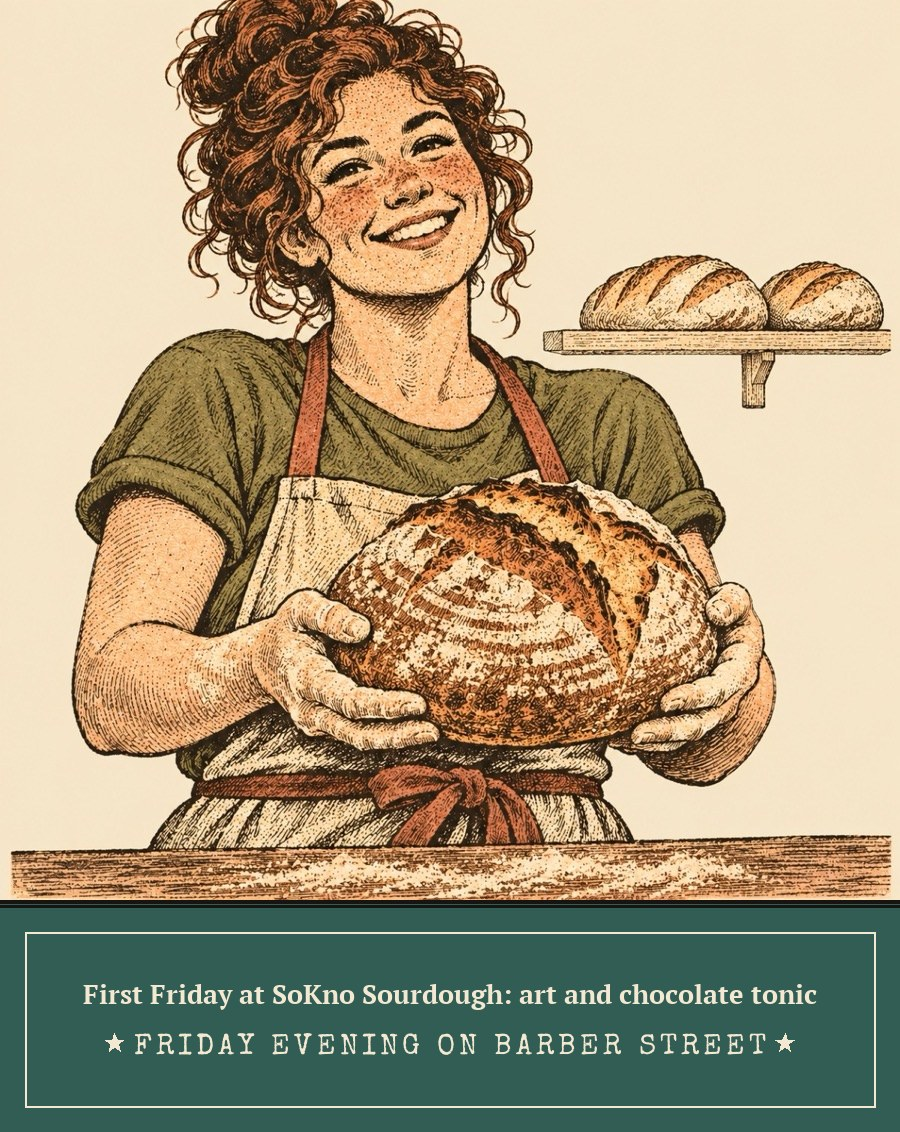
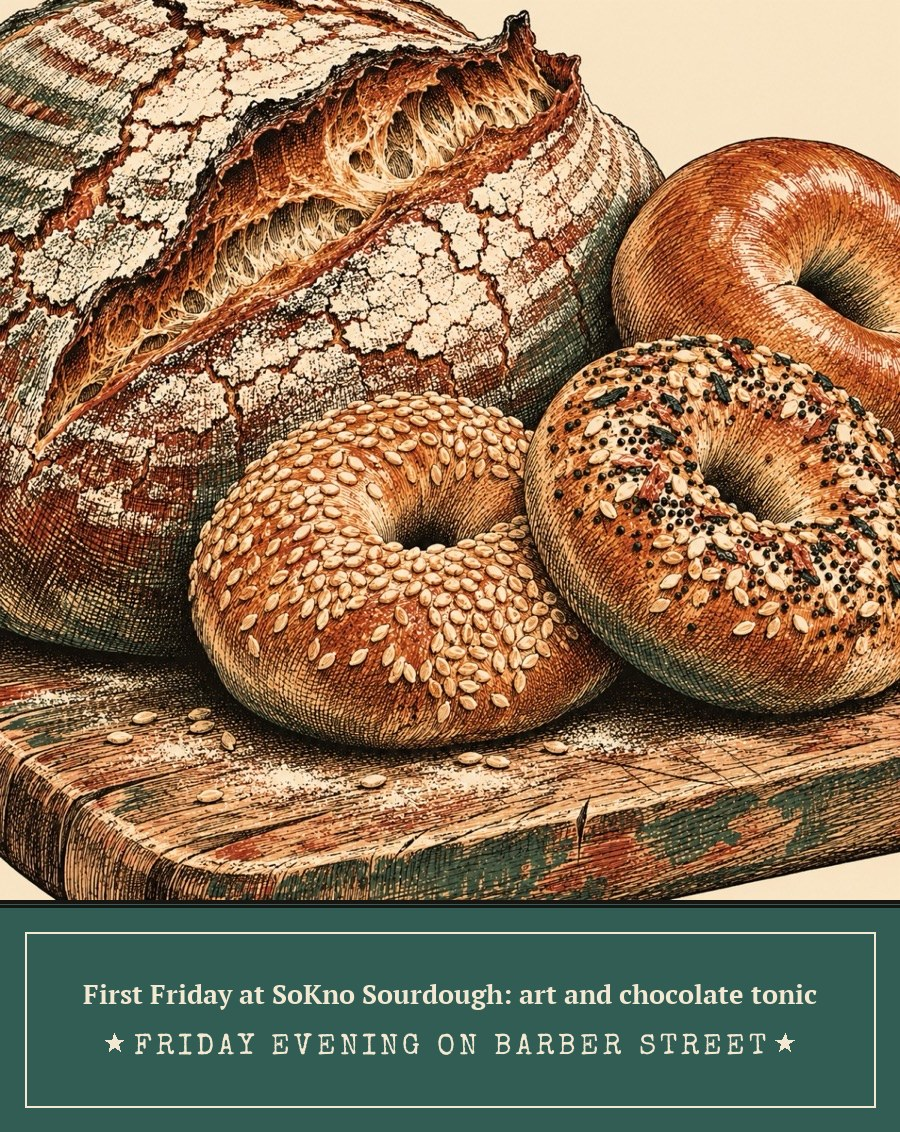
SoKno Sourdough: past pictures are bread and bagels only, and the bakery is excluded from future issues (Andy, 2026-11-27)
- No. 21, 23 and 24: the owner-baker engravings are replaced with people-less bread and
  bagel engravings under new filenames (no21_loaf_bagels_board, no23_bagel_tray_loaves,
  no24_bagel_bag_loaf); Instagram banners rebuilt; art logs record the old prompts.
- sources.json _rules.excluded: research-check fails any draft that names SoKno Sourdough;
  its feed is weekly:false. venues.json excluded drops it from the party planner;
  contacts.json excluded stops venue notes. Test added.

diff --git a/tests/research-check.test.ts b/tests/research-check.test.ts
@@ -25,6 +25,11 @@ describe("the source list", () => {
 });
 
 describe("checkResearch", () => {
+  it("fails a draft that mentions SoKno Sourdough anywhere (Andy, 2026-11-27: excluded for good)", () => {
+    const withBakery = { ...balanced, stories: [...balanced.stories, { id: "g", label: "Old Sevier", text: "Bagels at So-Kno Sourdough" }] };
+    const r = checkResearch(registry, { checked: allChecked(), leads: [hubLead] }, withBakery);
+    expect(r.errors.some((e) => /excluded from the Ear/.test(e))).toBe(true);
+  });
   it("passes a week that read everything and is spread across the beat", () => {
     const r = checkResearch(registry, { checked: allChecked(), leads: [hubLead] }, balanced);
     expect(r.errors).toEqual([]);

diff --git a/lib/venues.ts b/lib/venues.ts
@@ -24,6 +24,9 @@ export type Venue = {
   /** Set (e.g. "2026-08") when the business has closed: kept so archived episodes still
    *  resolve, but never matched against a row's wording, only against an event location. */
   closed?: string;
+  /** Set when Andy has taken a place out of the Ear for good (SoKno Sourdough, 2026-11-27):
+   *  kept so archived episodes still resolve, but never offered in the party planner. */
+  excluded?: string;
   /** Lists the venue under Eat and/or Drink in the party planner's "show all". */
   serves?: ("eat" | "drink")[];
   /** One-line street address, as the Ear has published it. */

diff --git a/lib/planner-data.ts b/lib/planner-data.ts
@@ -11,7 +11,7 @@ import { PLAN_DAYS, buildFeatured, catOf, minutesOf, nightDates, sortName, weekK
 export function buildDirectory(registry: VenueRegistry, days: Record<NightDay, NightItem[]>): PlannerData["directory"] {
   const out: PlannerData["directory"] = { eat: [], drink: [] };
   for (const [key, v] of Object.entries(registry)) {
-    if (v.closed) continue;
+    if (v.closed || v.excluded) continue;
     for (const cat of v.serves ?? []) {
       out[cat].push({
         id: `v:${key}`, cat, kind: "venue", title: v.name, brand: v.name,
